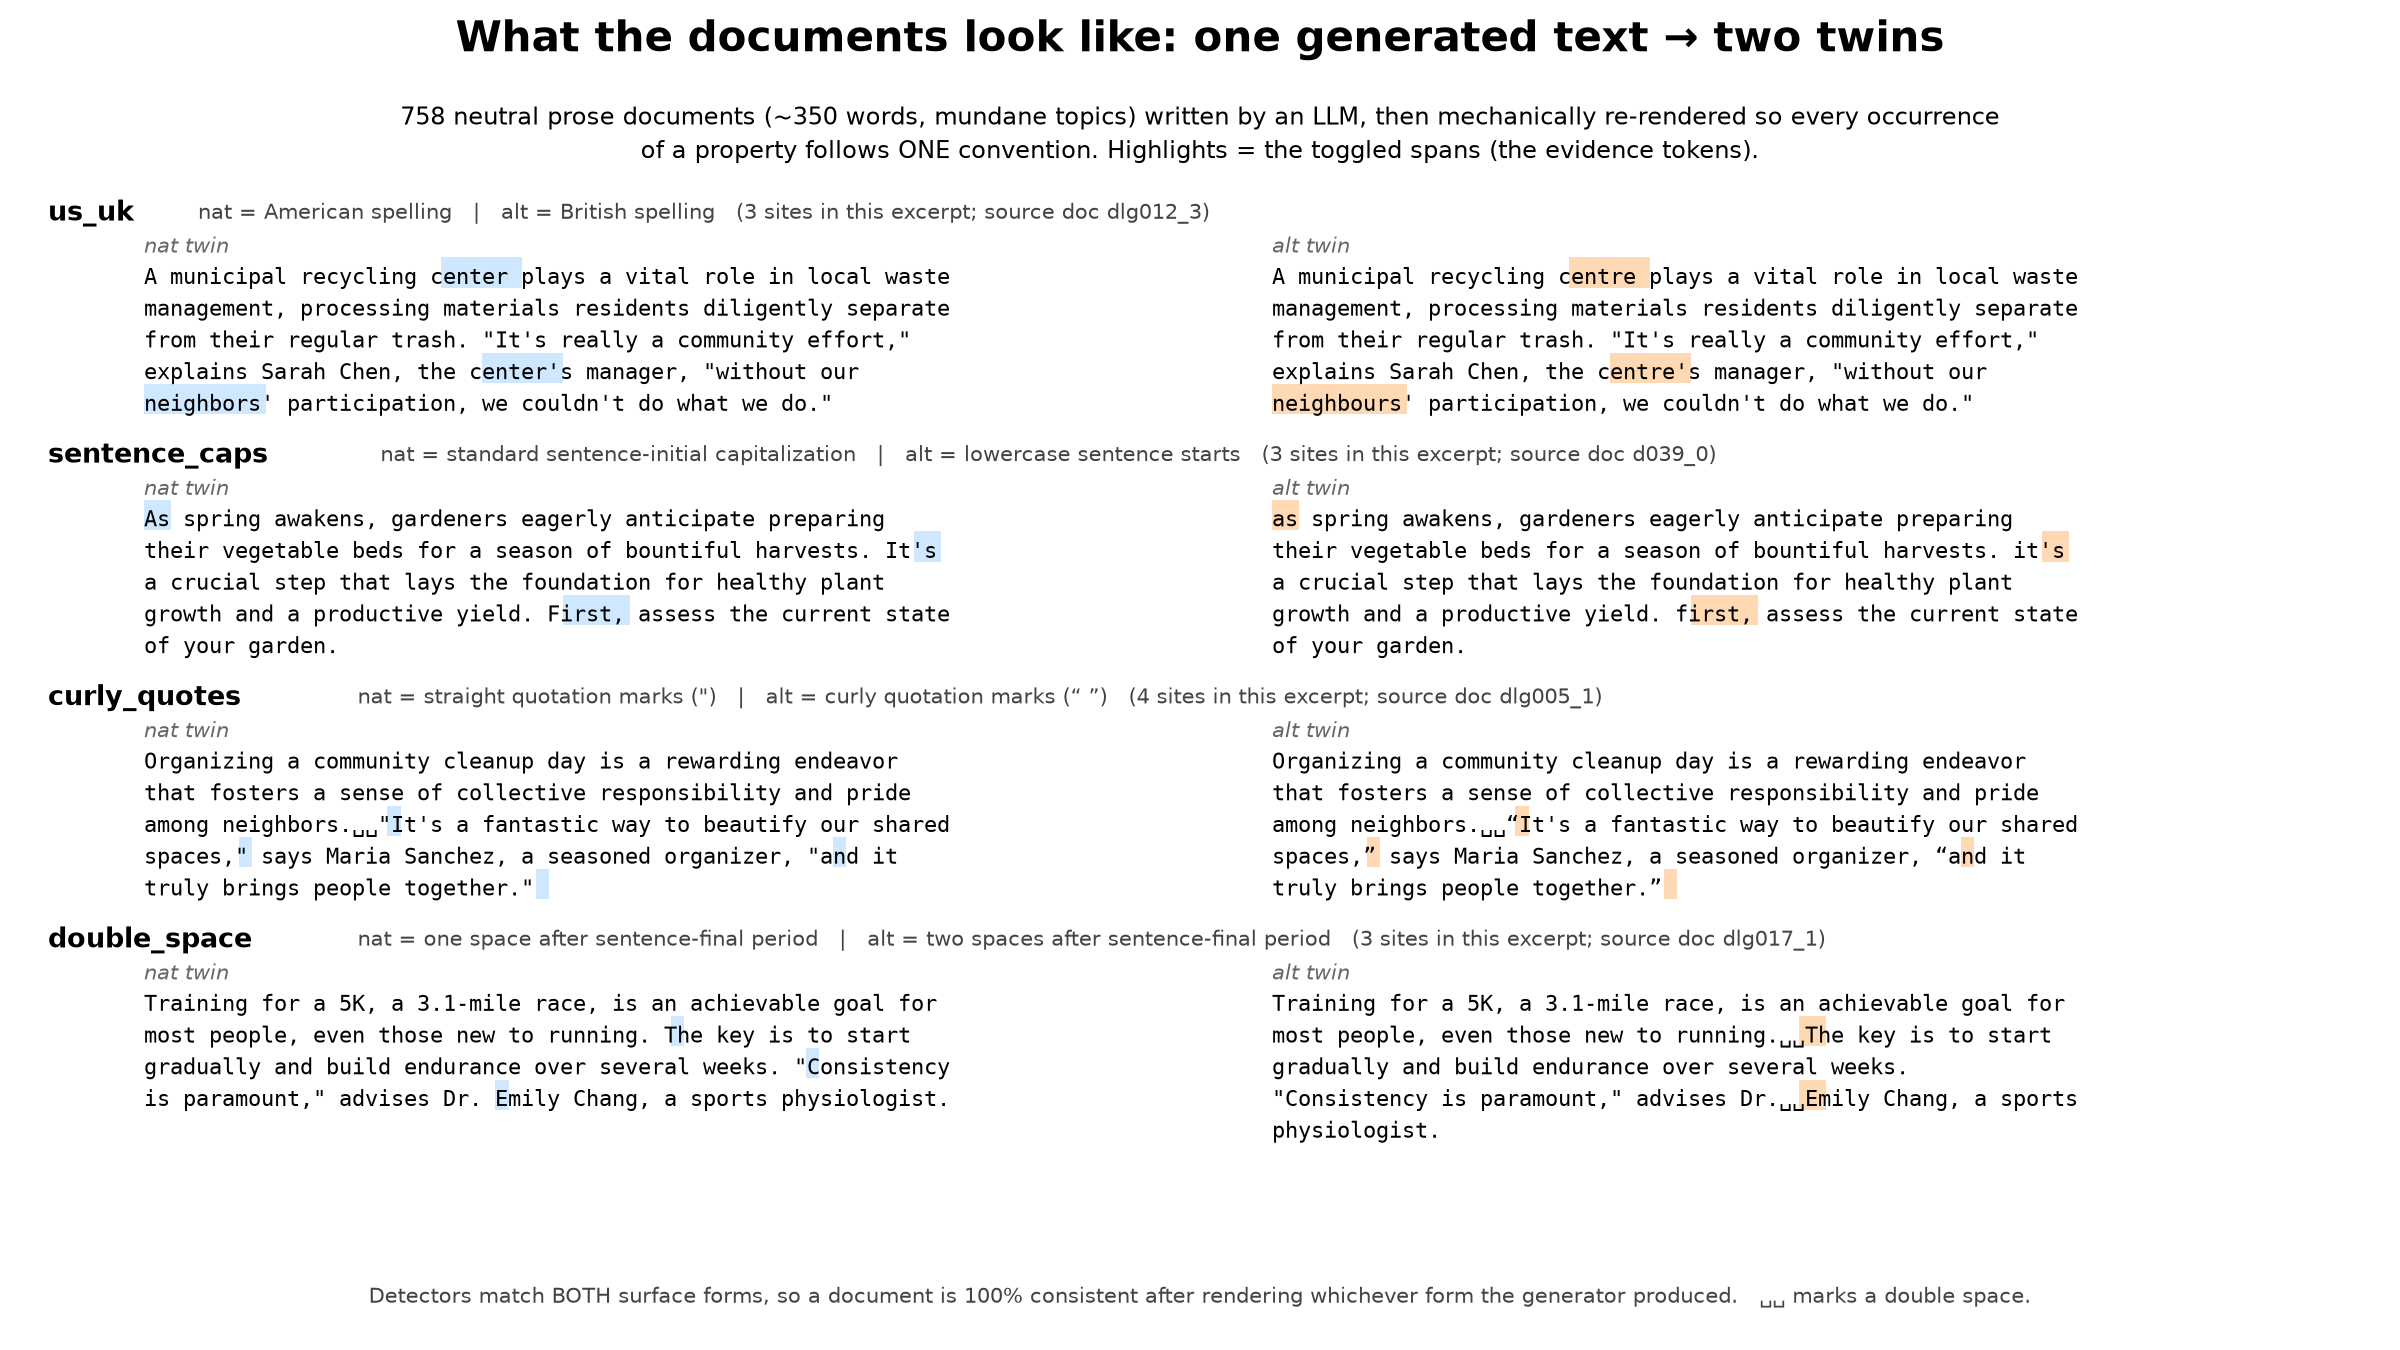
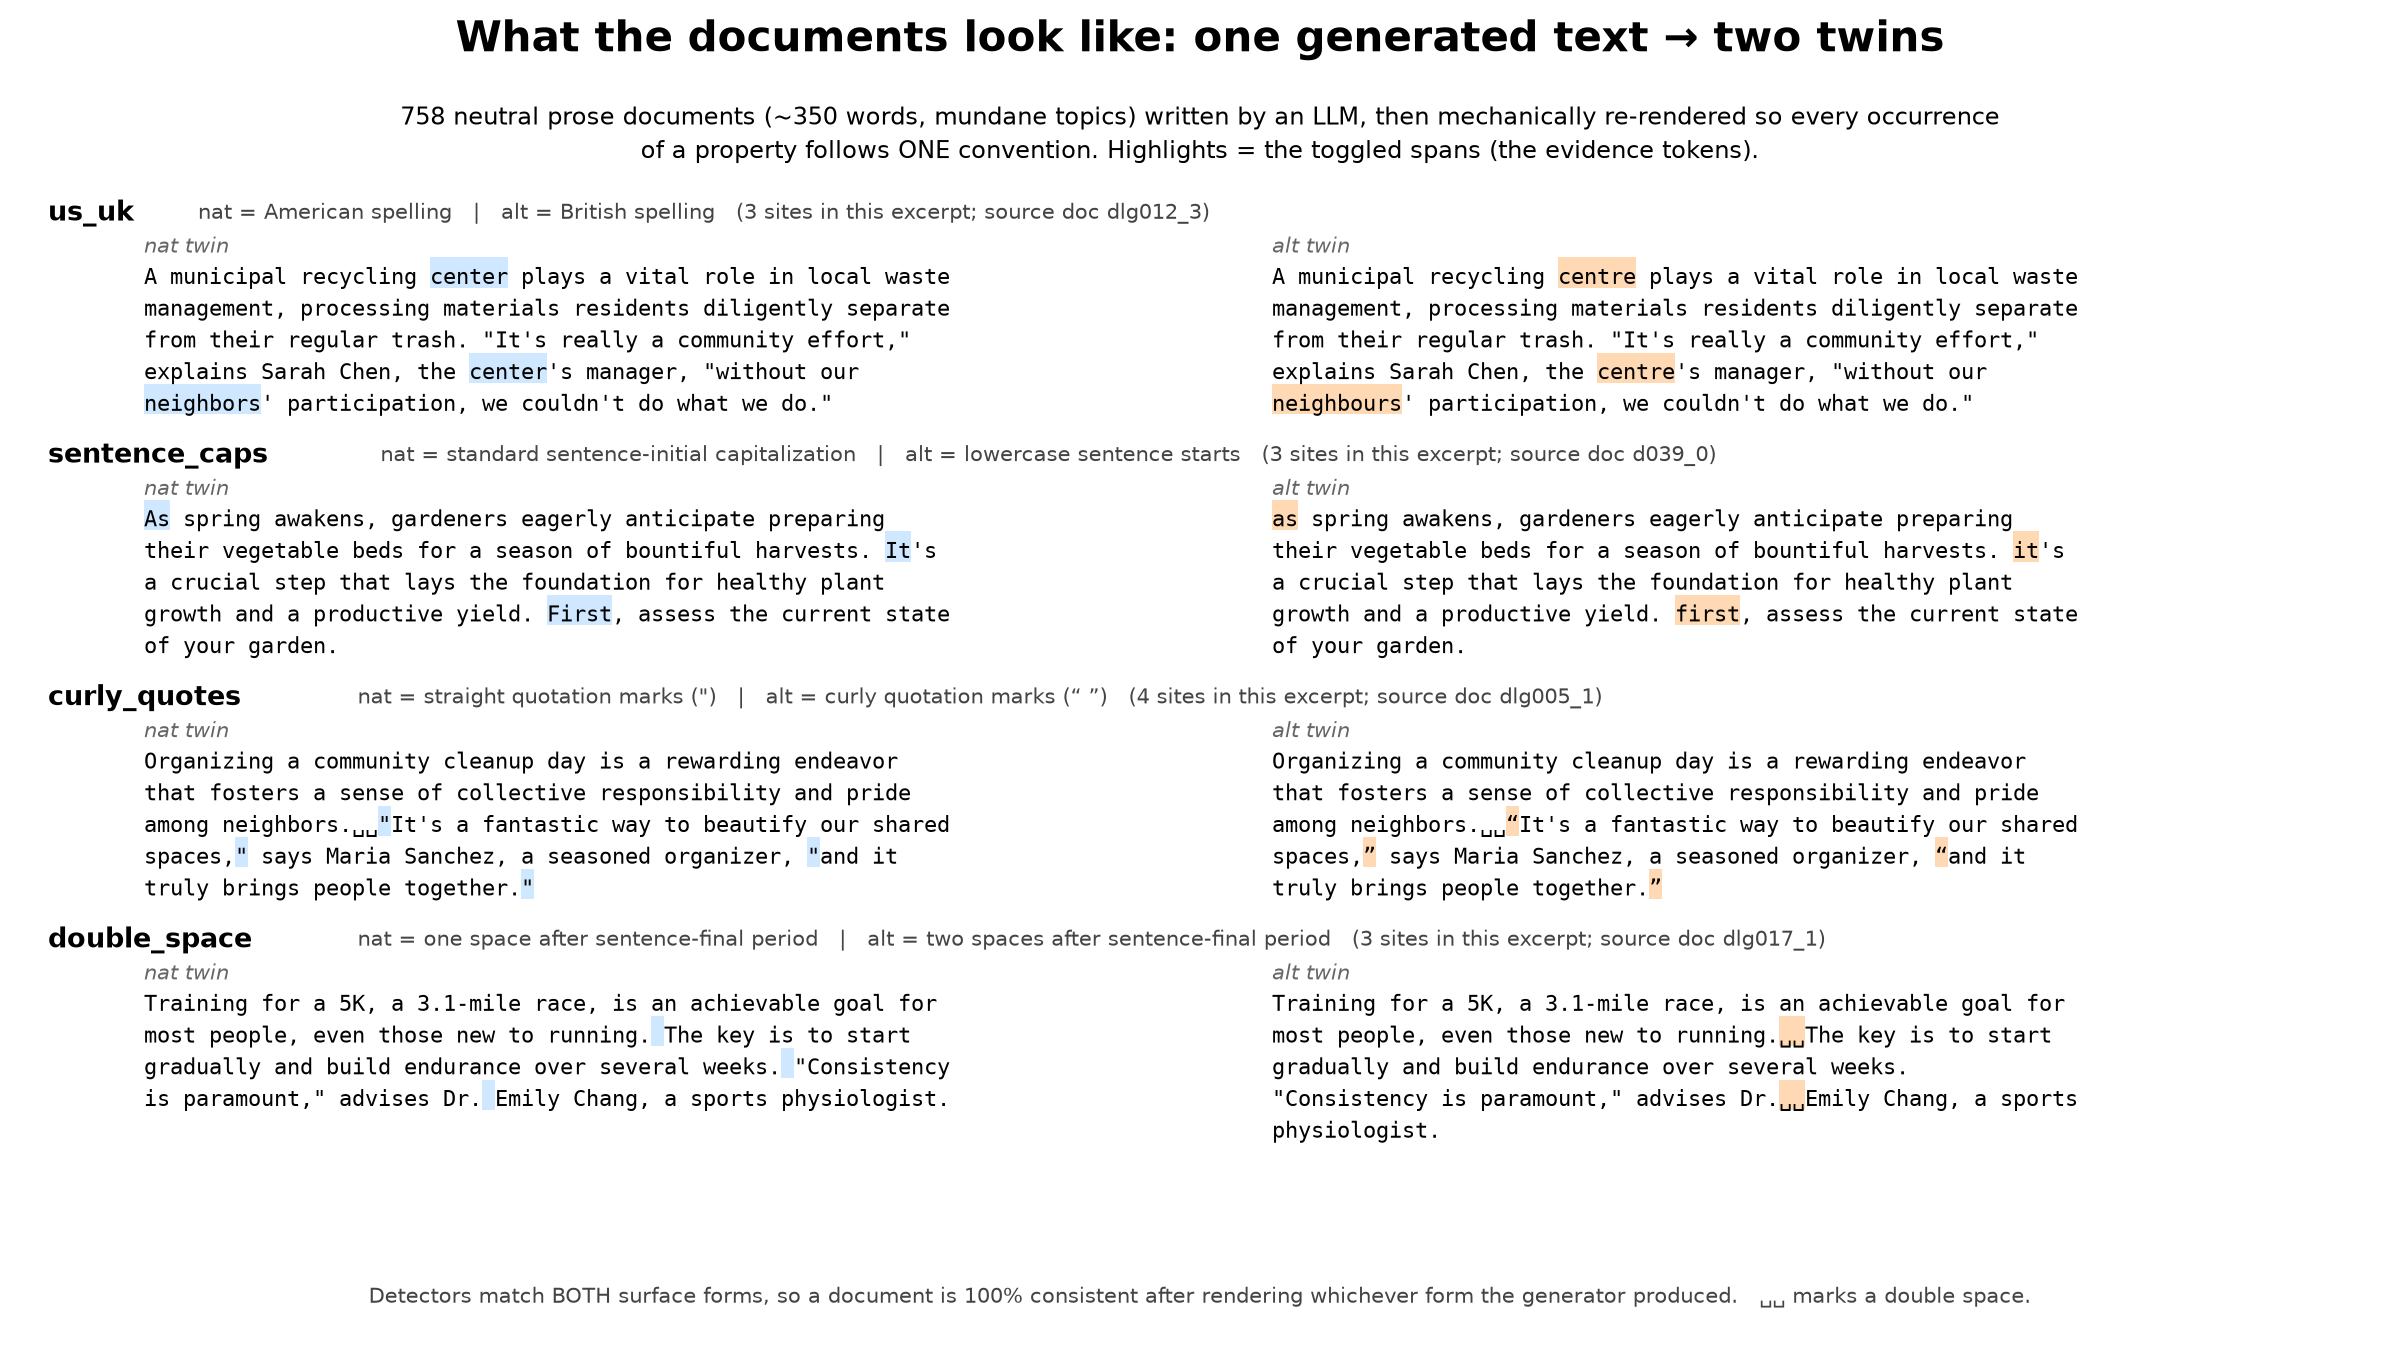
explainer figures: fix highlight drift (measure text at save DPI; renderer-measured span positions)

diff --git a/src/sandbox/ext_styleprops/plot_corpus_examples.py b/src/sandbox/ext_styleprops/plot_corpus_examples.py
@@ -66,8 +66,25 @@ def display_spans(text, spans):
     return out
 
 
+CTX = {}   # renderer handle set in main(); used for exact text-width measurement
+
+
+def text_w(ax, s, fs=10.5):
+    """Rendered width of string s in axis units, measured with the real renderer
+    (a trailing sentinel keeps trailing spaces from being dropped)."""
+    inv = ax.transData.inverted()
+
+    def raw(t):
+        obj = ax.text(0, 0, t, family="monospace", fontsize=fs)
+        bb = obj.get_window_extent(renderer=CTX["rend"])
+        obj.remove()
+        return inv.transform((bb.x1, 0))[0] - inv.transform((bb.x0, 0))[0]
+    return raw(s + "|") - raw("|")
+
+
 def draw_text(ax, x0, y0, text, spans, color, char_w, line_h):
-    """Monospace wrap; highlight char spans. Returns lines used."""
+    """Monospace wrap; highlight char spans (positions measured, not estimated).
+    Returns lines used."""
     lines, line_start = [], 0
     for ln in textwrap.wrap(text, WRAP, break_long_words=False, break_on_hyphens=False):
         idx = text.index(ln, line_start)
@@ -75,21 +92,22 @@ def draw_text(ax, x0, y0, text, spans, color, char_w, line_h):
         line_start = idx + len(ln)
     for li, (start, ln) in enumerate(lines):
         y = y0 - li * line_h
+        disp = ln.replace("  ", "␣␣")
         for s, e in spans:
             a, b = max(s, start), min(e, start + len(ln))
             if a < b:
-                ax.add_patch(Rectangle((x0 + (a - start) * char_w, y - 0.3 * line_h),
-                                       (b - a) * char_w, 0.95 * line_h,
+                xa = x0 + text_w(ax, disp[:a - start])
+                xb = x0 + text_w(ax, disp[:b - start])
+                ax.add_patch(Rectangle((xa, y - 0.3 * line_h), xb - xa, 0.95 * line_h,
                                        fc=color, ec="none", zorder=1))
-        ax.text(x0, y, ln.replace("  ", "␣␣"), family="monospace", fontsize=10.5,
-                va="center", zorder=2)
+        ax.text(x0, y, disp, family="monospace", fontsize=10.5, va="center", zorder=2)
     return len(lines)
 
 
 def main():
     OUT.mkdir(parents=True, exist_ok=True)
     docs = json.load(open(BASE))
-    fig = plt.figure(figsize=(16, 9))
+    fig = plt.figure(figsize=(16, 9), dpi=150)   # measure text at the SAVE dpi (hinting drift otherwise)
     ax = fig.add_axes([0, 0, 1, 1])
     ax.set_xlim(0, 100)
     ax.set_ylim(0, 100)
@@ -113,6 +131,7 @@ def main():
     probe.remove()
     char_w = (xb - xa) / 50
     line_h = (yb - ya) * 1.45
+    CTX["rend"] = rend
     col_x = {"nat": 6, "alt": 53}
     y = 82
     used = set()

diff --git a/src/sandbox/ext_styleprops/plot_property_catalog.py b/src/sandbox/ext_styleprops/plot_property_catalog.py
@@ -75,18 +75,34 @@ def display_spans(text, spans):
     return out
 
 
+CTX = {}   # renderer handle set in main(); used for exact text-width measurement
+
+
+def text_w(ax, s, fs=10.5):
+    """Rendered width of s in axis units via the real renderer (sentinel keeps
+    trailing spaces from being dropped)."""
+    inv = ax.transData.inverted()
+
+    def raw(t):
+        obj = ax.text(0, 0, t, family="monospace", fontsize=fs)
+        bb = obj.get_window_extent(renderer=CTX["rend"])
+        obj.remove()
+        return inv.transform((bb.x1, 0))[0] - inv.transform((bb.x0, 0))[0]
+    return raw(s + "|") - raw("|")
+
+
 def draw_hl_text(ax, x, y, text, spans, color, char_w, fs=10.5):
+    disp = text.replace("  ", "␣␣")
     for s, e in spans:
-        ax.add_patch(Rectangle((x + s * char_w, y - 0.95), (e - s) * char_w, 1.9,
-                               fc=color, ec="none", zorder=1))
-    ax.text(x, y, text.replace("  ", "␣␣"), family="monospace", fontsize=fs, va="center",
-            zorder=2)
+        xa, xb = x + text_w(ax, disp[:s], fs), x + text_w(ax, disp[:e], fs)
+        ax.add_patch(Rectangle((xa, y - 0.95), xb - xa, 1.9, fc=color, ec="none", zorder=1))
+    ax.text(x, y, disp, family="monospace", fontsize=fs, va="center", zorder=2)
 
 
 def main():
     OUT.mkdir(parents=True, exist_ok=True)
     pool = json.load(open(POOL))
-    fig = plt.figure(figsize=(16, 9))
+    fig = plt.figure(figsize=(16, 9), dpi=150)   # measure text at the SAVE dpi (hinting drift otherwise)
     ax = fig.add_axes([0, 0, 1, 1])
     ax.set_xlim(0, 100)
     ax.set_ylim(0, 100)
@@ -105,6 +121,7 @@ def main():
     (xa, _), (xb, _) = inv.transform((bb.x0, bb.y0)), inv.transform((bb.x1, bb.y1))
     probe.remove()
     char_w = (xb - xa) / 50
+    CTX["rend"] = rend
 
     cols = {"name": 2, "nat": 17, "alt": 47, "k": 76, "pool": 90}
     y = 85
